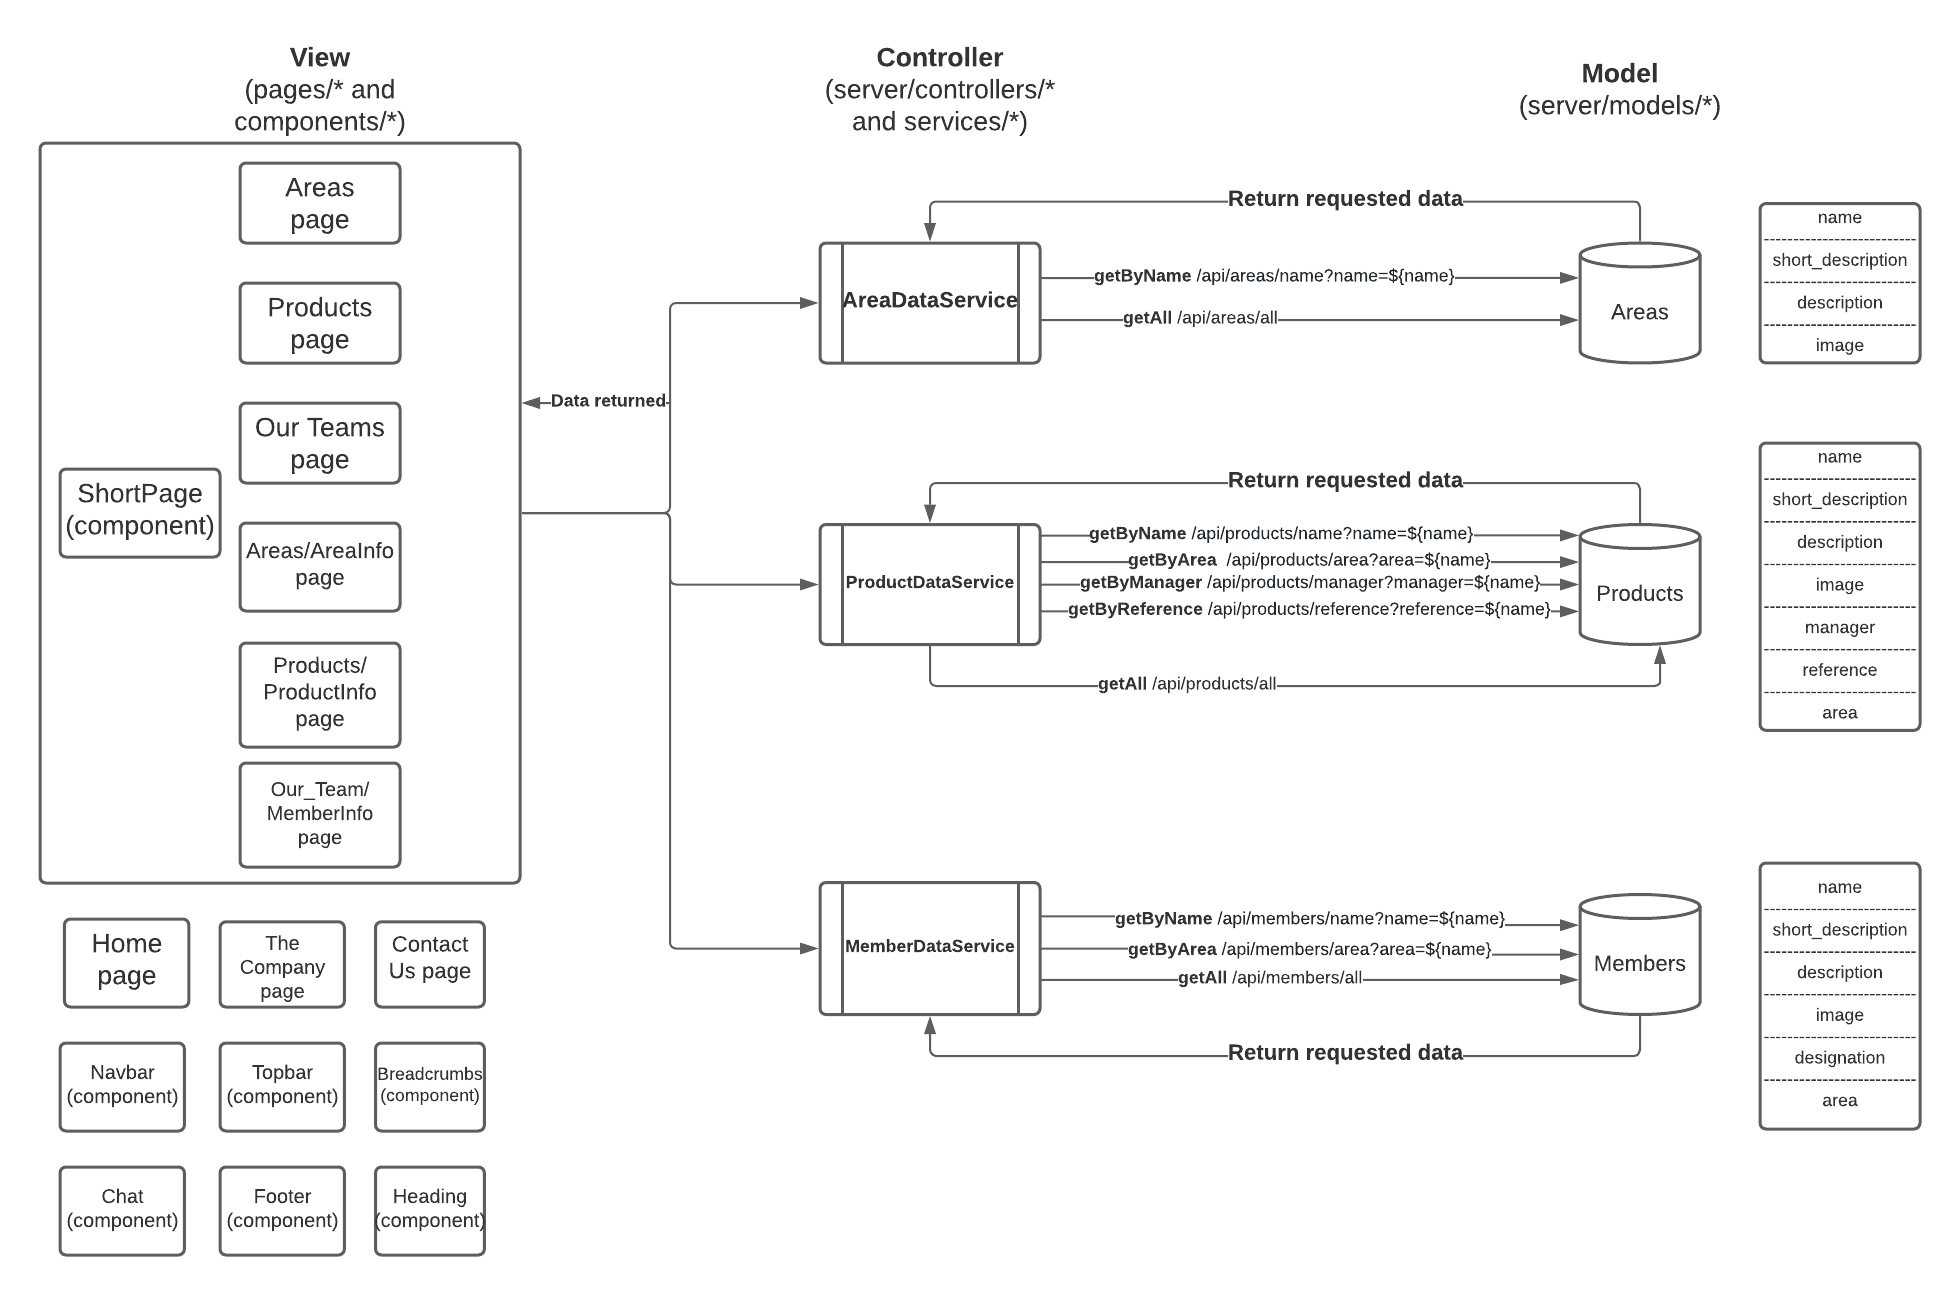
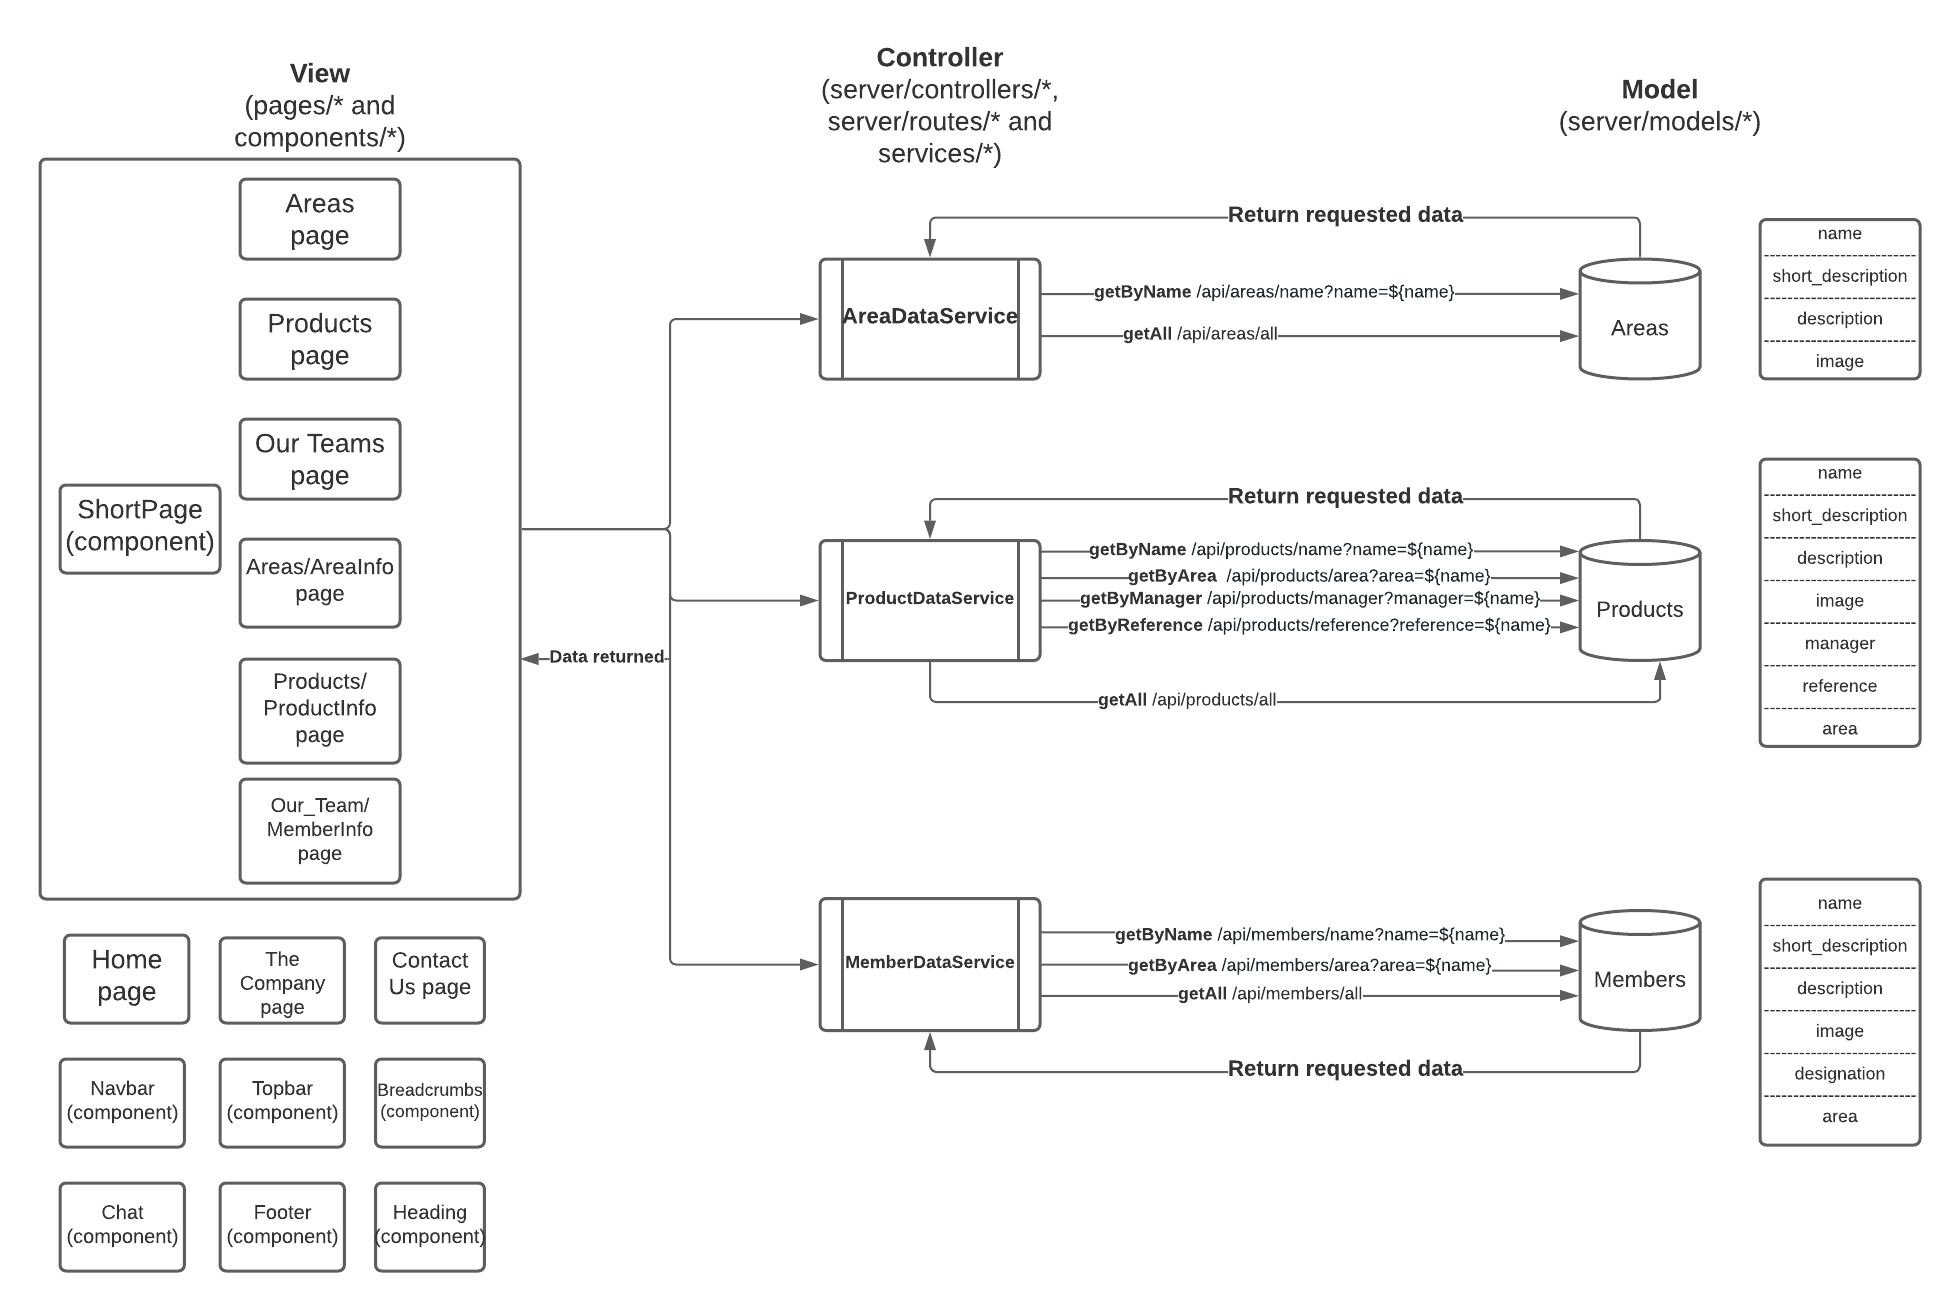
Added README and comments

diff --git a/nuxt.config.js b/nuxt.config.js
@@ -1,5 +1,6 @@
 export default {
   // Global page headers: https://go.nuxtjs.dev/config-head
+  //Add title, viewport and description based on lighthouse report
   head: {
     title: 'Hypercompany',
     htmlAttrs: {
@@ -22,6 +23,8 @@ export default {
   ],
 
   // Plugins to run before rendering page: https://go.nuxtjs.dev/config-plugins
+
+  //mmcc plugin
   plugins: [
     '~/plugins/mmcc.js'
   ],
@@ -32,6 +35,8 @@ export default {
   // Modules for dev and build (recommended): https://go.nuxtjs.dev/config-modules
   buildModules: [
   ],
+
+  //Configure Server handler
 
   serverMiddleware: [
     {
@@ -46,6 +51,8 @@ export default {
   // Build Configuration: https://go.nuxtjs.dev/config-build
   build: {
   },
+
+  //Configure chatbot id with mmcc
 
   env: {
     configurationId: 'e8cdc118-3b2d-4f7b-8149-23d5ef2e8428',

diff --git a/components/Breadcrumbs.vue b/components/Breadcrumbs.vue
@@ -9,7 +9,7 @@ We then loop over the crumbs parameter for each split of '/' and the link is gen
 
 For instance, for page Products/ProductInfo?name=Product1, the crumbs will be 'Products' and 'ProductInfo'. 
 The breadcrumbs however will display 'Products / Product1' only. This is because, 'ProductInfo' is not an actual page.
-
+The value 'Product1' is obtained using getParam method which returns this.$route.query.name
 -->
 <template>
   <div id="breadcrumb">

diff --git a/services/MemberDataService.js b/services/MemberDataService.js
@@ -13,11 +13,7 @@ class MemberDataService {
   getByName(name) {
     return http.get(`/members/name?name=${name}`);
   }
-
-  getByProduct(name) {
-    return http.get(`/members/product?product=${name}`);
-  }
-
+  
   getByArea(name) {
     return http.get(`/members/area?area=${name}`);
   }

diff --git a/server/config/config.js b/server/config/config.js
@@ -1,3 +1,9 @@
+/*
+Author: Sairaghav Venkataraman
+
+Description:
+Configuration to use by Sequelize. Gets URL of PostgreSQL from $DATABASE_URL environment variable set up in Heroku
+*/
 const conn = process.env.DATABASE_URL;
 
 const dialect = conn.split('://')[0];

diff --git a/server/models/areas.js b/server/models/areas.js
@@ -1,3 +1,6 @@
+/*
+Generated automatically by Sequelize cli when running sequelize-cli model:generate --name xyz and --attributes field_name:field_type
+*/
 'use strict';
 const {
   Model

diff --git a/server/models/members.js b/server/models/members.js
@@ -1,3 +1,6 @@
+/*
+Generated automatically by Sequelize cli when running sequelize-cli model:generate --name xyz and --attributes field_name:field_type
+*/
 'use strict';
 const {
   Model

diff --git a/server/models/products.js b/server/models/products.js
@@ -1,3 +1,6 @@
+/*
+Generated automatically by Sequelize cli when running sequelize-cli model:generate --name xyz and --attributes field_name:field_type
+*/
 'use strict';
 const {
   Model

diff --git a/README.md b/README.md
@@ -62,15 +62,78 @@
 
 **Re-usability of code:**
 
-- **Re-usable CSS**: Most of the CSS to be re-used is configured in layouts/default.vue and CSS is only added to individual pages if there is a need to over-write some styles for the specific page. All styles that is valid for the particular page is provided with `scoped` attribute. Detailed explanation provided in [layouts/README.md](./layouts/README.md)
+- **Re-usable CSS**: Most of the CSS to be re-used is configured in layouts/default.vue and CSS is only added to individual pages if there is a need to over-write some styles for the specific page. All styles that is necessary only for the particular page is provided with `scoped` attribute. Detailed explanation provided in [layouts/README.md](./layouts/README.md)
 
 - **Re-usable code**: Almost ALL the information in the website is displayed using a SINGLE component (components/ShortPage.vue). Each part of the web-page is written as a set of components (Navbar, Footer, Topbar, Chat, Heading and ShortPage) and displayed as necessary.
 Detailed explanation provided in [components/README.md](./components/README.md)
 
 **Adherence to project specification:**
 
-- **Responsiveness**: The website is responsive and will adapt to the device height and width due to the use of CSS Media queries
+- **Responsiveness**: The website is responsive and will adapt to the device height and width due to the use of CSS Media queries.
+The @media query is configured in layouts/default.vue, components/ShortPage.vue, components/Navbar.vue and components/Chat.vue
 
+1. **layouts/default.vue**
+```
+/*Define properties if screen width < 800 px */
+@media only screen and (max-width: 800px) {
+  /*Do not use flexbox for display-details */
+  .display-details {
+    display: block;
+  }
+  /*Do not use 300x300 image size if device is small*/
+  .display-details img {
+    width: 100%;
+  }
+  /*Do not lock topbar position on top if device is small*/
+  .topbar {
+    display: block;
+    position: relative;
+    top: 0vh;
+  }
+}
+```
+
+2. **components/ShortPage.vue**
+```
+/*The image for area will be adjusted depending on screen size. */
+
+@media only screen and (max-width: 800px) {
+    .area-content img {
+        width: 70vw;
+        height: 40vh;
+    }
+}
+```
+
+3. **components/Navbar.vue**
+```
+/*Adjust navbar as block and not flex when device width is less than 800 px */
+@media only screen and (max-width: 800px) {
+  /*Do not lock navbar on top when device width is small*/
+  .navbar {
+    display: block;
+    position: relative;
+  }
+  /*Define size of logo for small device*/
+  .logo img {
+    height: 10vh;
+    width: 100vw;
+  }
+}
+```
+
+4. **components/Chat.vue**
+```
+}
+/*Adjust position of chat button when screen width is less than 800px*/
+
+@media only screen and (max-width: 800px) {
+  .button {
+    bottom: 6vh;
+    right: 2vw;
+  }
+}
+```
 
 **Adherence to applicable usability heuristics:**
 

diff --git a/server/README.md b/server/README.md
@@ -3,6 +3,16 @@
 ## Server
 This website uses `express`, `axios` `vue-router` to host the server and access using API routes. The detailed explanation is given in Plugins section of this document.
 
+The server is configured in `nuxt.config.js`:
+```
+ serverMiddleware: [
+    {
+      path: '/api',
+      handler: '~/server/server.js',
+    }
+]
+```
+
 ## DB Schema
 The backend database used in this website is PostgreSQL setup using Heroku free Postgres. We are using the plugin `sequelize` to interact with the DB (configuration and explanation provided in Plugins section of this document). We are making use of following 3 tables for our website:
 

diff --git a/plugins/README.md b/plugins/README.md
@@ -4,6 +4,13 @@
 
 **1. MMCC:** Plugin for chatbot: https://gitlab.com/i3lab/mmcc/frontend/mmcc-vue.git.
 
+It also needs to be configured in `nuxt.config.js`:
+```
+plugins: [
+    '~/plugins/mmcc.js'
+]
+```
+
 ## Server-side
 
 **1. express, vue-router**: For setting up the server, `express` is installed with the command `npm install --save express cors`. **cors** is used to provide cross-origin resource sharing capability to allow access from only allowed external websites. `vue-router` is also installed to enable routing for the server using  the command `npm install --save vue-router`.

diff --git a/components/README.md b/components/README.md
@@ -55,6 +55,7 @@ We then loop over the crumbs parameter for each split of '/' and the link is gen
 
 For instance, for page Products/ProductInfo?name=Product1, the crumbs will be 'Products' and 'ProductInfo'. 
 The breadcrumbs however will display 'Products / Product1' only. This is because, 'ProductInfo' is not an actual page.
+The value 'Product1' is obtained using getParam method which returns this.$route.query.name
 ```
 
 - **Chat.vue:**
